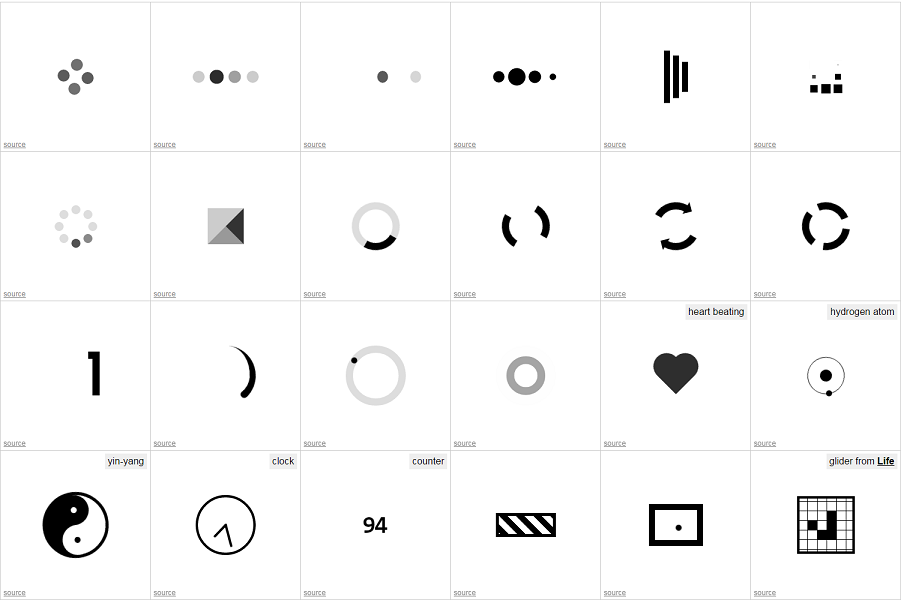
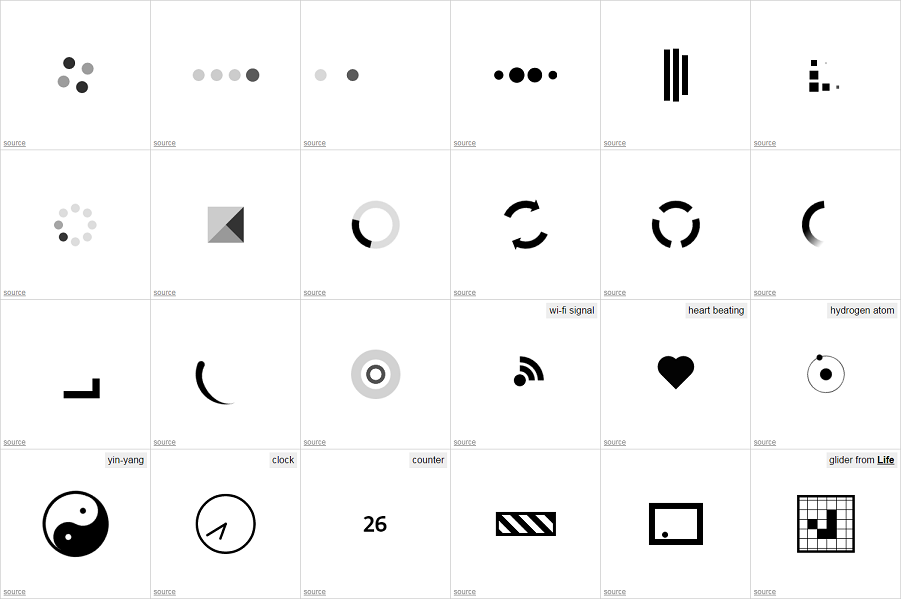
spinner added, screenshot updated

diff --git a/spinners.css b/spinners.css
@@ -626,6 +626,45 @@
 }
 
 
+.spinner-17 {
+    font-size: 8px;
+    width: 10em;
+    height: 10em;
+    position: relative;
+    animation: spinner-17 .9s infinite linear;
+}
+.spinner-17::before,
+.spinner-17::after {
+    content: "";
+    position: absolute;
+}
+.spinner-17::before {
+    width: 10em;
+    height: 5em;
+    left: 0;
+    top: 0;
+    background: linear-gradient(45deg, transparent, transparent 1.5em, transparent 1.5em, black 6em, black 6em, black);
+    border-radius: 5em 5em 0 0;
+}
+.spinner-17::after {
+    animation-delay: -.5s;
+    width: 7em;
+    height: 3.5em;
+    left: 1.5em;
+    top: 1.5em;
+    background-color: white;
+    border-radius: 3.5em 3.5em 0 0;
+}
+@keyframes spinner-17 {
+    0% {
+        transform: rotate(0deg);
+    }
+    100% {
+        transform: rotate(360deg);
+    }
+}
+
+
 .spinner-heart {
     font-size: 10px;
     width: 10em;
